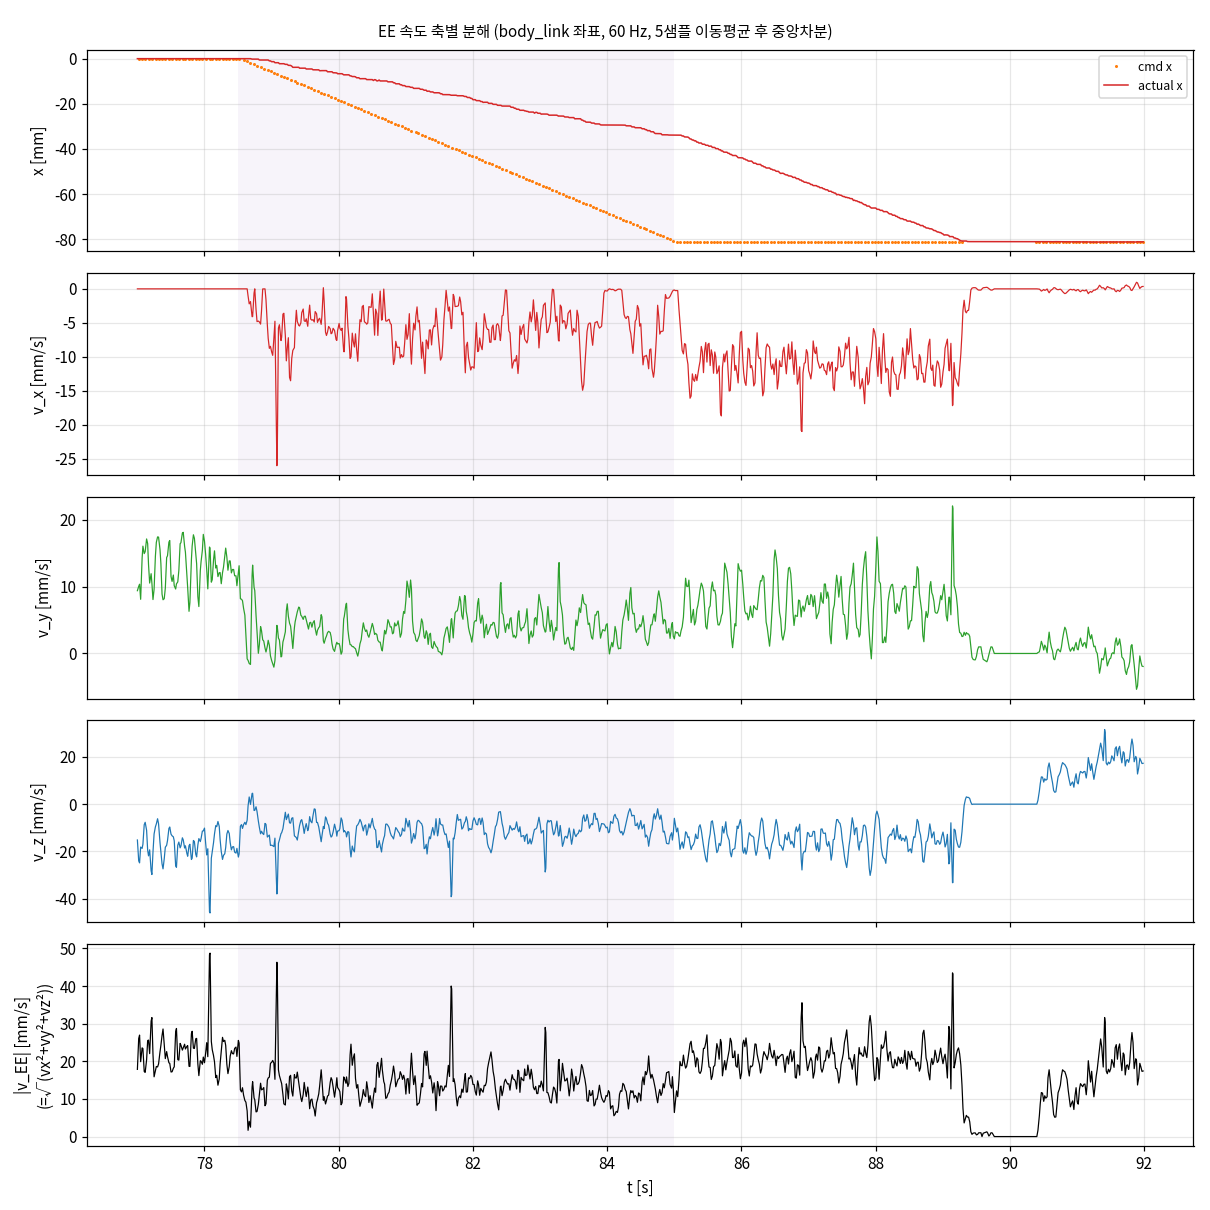
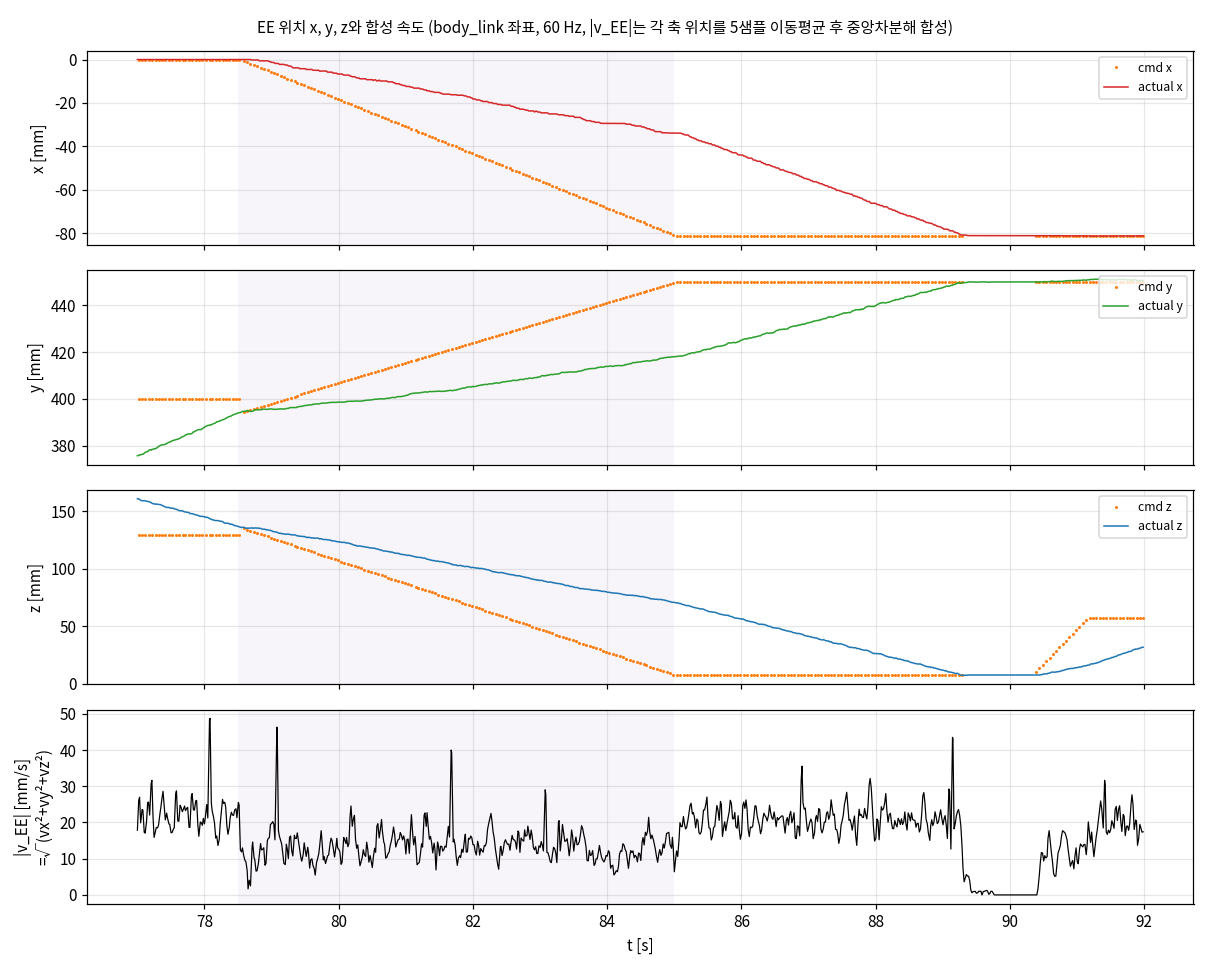
A단계 그림을 x·y·z 위치 + 합성 |v_EE|로, PiPER base 좌표축 그림 추가
- plot_bag_xyz: 기본은 x, y, z 위치(지령/실측)와 |v_EE|, --vel이면 축별 속도 줄 추가
- tools/draw_base_frame.py: URDF STL 메시로 자세를 그려 base_link(native) 좌표축 표시, body_link와의 관계 명시
- docs/img/p_base_frame.png: B단계 line 시작 자세(EE 300.1, 0, 140.1 mm, 펌웨어 EndPose와 일치)

diff --git a/tools/draw_base_frame.py b/tools/draw_base_frame.py
@@ -1,0 +1,123 @@
+#!/usr/bin/env python3
+"""URDF 메시(STL)로 PiPER 자세를 그리고 base_link(native)·body_link 좌표축을 표시 — 발표용 좌표 정의 그림.
+
+사용: python3 tools/draw_base_frame.py --q 0 103.55 -54.85 0 46.26 -15.03 --out docs/img/p_base_frame.png
+q: 관절각 [deg] (기본값 = B단계 line 궤적 시작 자세)
+"""
+import argparse
+import os
+import sys
+import xml.etree.ElementTree as ET
+
+import numpy as np
+import matplotlib
+matplotlib.use("Agg")
+import matplotlib.pyplot as plt
+from mpl_toolkits.mplot3d.art3d import Poly3DCollection
+
+sys.path.insert(0, os.path.dirname(__file__))
+sys.path.insert(0, os.path.join(os.path.dirname(__file__), "..", "src", "common_pkg"))
+from traj_analyze import _font
+from piper_kin import load_urdf_xml
+from step22_common import ARM_BASE_YAW_DEG
+
+MESH_DIR = os.path.join(os.path.dirname(__file__), "..", "src", "piper_description", "meshes")
+COLORS = {"base_link": "0.35", "gripper_base": "0.25", "link7": "0.25", "link8": "0.25"}
+
+
+def read_stl(path):  # 바이너리 STL → 삼각형 [N,3,3] m
+    with open(path, "rb") as f:
+        f.read(80)
+        n = int(np.frombuffer(f.read(4), np.uint32)[0])
+        rec = np.frombuffer(f.read(n * 50), dtype=np.dtype([("n", "<f4", 3), ("v", "<f4", (3, 3)), ("a", "<u2")]))
+    return rec["v"].astype(float)
+
+
+def rpy_mat(r, p, y):
+    cx, sx, cy, sy, cz, sz = np.cos(r), np.sin(r), np.cos(p), np.sin(p), np.cos(y), np.sin(y)
+    return (np.array([[cz, -sz, 0], [sz, cz, 0], [0, 0, 1]]) @ np.array([[cy, 0, sy], [0, 1, 0], [-sy, 0, cy]])
+            @ np.array([[1, 0, 0], [0, cx, -sx], [0, sx, cx]]))
+
+
+def axis_rot(ax, th):  # 로드리게스
+    ax = np.asarray(ax, float) / np.linalg.norm(ax)
+    K = np.array([[0, -ax[2], ax[1]], [ax[2], 0, -ax[0]], [-ax[1], ax[0], 0]])
+    return np.eye(3) + np.sin(th) * K + (1 - np.cos(th)) * K @ K
+
+
+def link_frames(urdf_xml, q_deg):  # 링크별 base_link 기준 4x4 변환
+    root = ET.fromstring(urdf_xml)
+    T = {"base_link": np.eye(4)}
+    joints = root.findall("joint")
+    while True:
+        added = False
+        for j in joints:
+            par, ch = j.find("parent").get("link"), j.find("child").get("link")
+            if par not in T or ch in T:
+                continue
+            o = j.find("origin")
+            A = np.eye(4)
+            A[:3, :3] = rpy_mat(*[float(v) for v in o.get("rpy", "0 0 0").split()])
+            A[:3, 3] = [float(v) for v in o.get("xyz", "0 0 0").split()]
+            M = np.eye(4)
+            name = j.get("name")
+            if j.get("type") == "revolute" and name.startswith("joint") and int(name[5:]) <= 6:
+                M[:3, :3] = axis_rot([float(v) for v in j.find("axis").get("xyz").split()], np.radians(q_deg[int(name[5:]) - 1]))
+            T[ch] = T[par] @ A @ M
+            added = True
+        if not added:
+            return T
+
+
+def main():
+    ap = argparse.ArgumentParser()
+    ap.add_argument("--q", nargs=6, type=float, default=[0, 103.55, -54.85, 0, 46.26, -15.03])
+    ap.add_argument("--out", default="docs/img/p_base_frame.png")
+    a = ap.parse_args()
+    _font()
+    T = link_frames(load_urdf_xml(), a.q)
+    light = np.array([0.4, -0.5, 0.8]); light /= np.linalg.norm(light)
+
+    fig = plt.figure(figsize=(14, 7))
+    for k, (elev, azim, title) in enumerate(((22, -60, "비스듬히 본 모습"), (0, -90, "옆에서 본 모습 (x–z 평면)"))):
+        ax = fig.add_subplot(1, 2, k + 1, projection="3d", proj_type="persp" if k == 0 else "ortho")
+        ax.computed_zorder = False  # 그린 순서대로 — 좌표축이 메시에 가려지지 않게
+        for link, M in T.items():
+            path = os.path.join(MESH_DIR, f"{link}.STL")
+            if not os.path.exists(path):
+                continue
+            tri = read_stl(path) @ M[:3, :3].T + M[:3, 3]
+            nrm = np.cross(tri[:, 1] - tri[:, 0], tri[:, 2] - tri[:, 0])
+            nrm /= np.linalg.norm(nrm, axis=1, keepdims=True) + 1e-12
+            shade = 0.45 + 0.55 * np.clip(nrm @ light, 0, 1)
+            base = np.array(matplotlib.colors.to_rgb(COLORS.get(link, "0.8")))
+            ax.add_collection3d(Poly3DCollection(tri, facecolors=np.clip(base[None] * shade[:, None] + 0.1, 0, 1), linewidths=0))
+        L = 0.2
+        for v, c, n in ((np.eye(3)[0], "red", "x"), (np.eye(3)[1], "green", "y"), (np.eye(3)[2], "blue", "z")):
+            if k == 1 and n == "y":
+                continue
+            ax.quiver(0, 0, 0, *(v * L), color=c, lw=3, arrow_length_ratio=0.12)
+            ax.text(*(v * L * 1.12), n, color=c, fontsize=15, weight="bold")
+        pe = T["link6"][:3, 3]
+        ax.scatter(*pe, color="k", s=30)
+        ax.text(*(pe + [0.015, 0, 0.02]), "EE(link6)", fontsize=10, weight="bold")
+        ax.quiver(*pe, 0.07, 0, -0.04, color="tab:purple", lw=2.5, arrow_length_ratio=0.2)
+        ax.text(*(pe + [0.07, 0, -0.07]), "line: x +70, z −40 mm", color="tab:purple", fontsize=10)
+        ax.set_xlim(-0.1, 0.4); ax.set_ylim(-0.25, 0.25); ax.set_zlim(-0.05, 0.45)
+        ax.set_box_aspect((1, 1, 1))
+        ax.set_xlabel("x [m]"); ax.set_ylabel("y [m]"); ax.set_zlabel("z [m]")
+        ax.view_init(elev=elev, azim=azim)
+        if k == 1:
+            ax.set_yticks([]); ax.set_ylabel("")
+        ax.set_title(title, fontsize=11, pad=0)
+    yaw = ARM_BASE_YAW_DEG
+    fig.suptitle("PiPER base_link(native) 좌표 — 원점: 팔 베이스 바닥 중심, x 앞(팔 뻗는 방향), y 왼쪽, z 위", fontsize=13)
+    fig.text(0.5, 0.03, f"A단계 그림의 body_link(차체 기준)는 팔이 차체에 {yaw:.0f}° 돌아 장착돼 있어 x_body = −y, y_body = x, z_body = z  "
+             "(EE = 펌웨어 EndPose = URDF link6 원점)", ha="center", fontsize=10, color="0.3")
+    fig.subplots_adjust(left=0.02, right=0.98, top=0.9, bottom=0.08, wspace=0.05)
+    fig.savefig(a.out, dpi=120)
+    print("저장:", a.out, " EE(link6) =", np.round(pe * 1000, 1), "mm")
+
+
+if __name__ == "__main__":
+    main()

diff --git a/tools/plot_bag_xyz.py b/tools/plot_bag_xyz.py
@@ -1,5 +1,5 @@
 #!/usr/bin/env python3
-"""bag 구간 → EE 위치(x 지령/실측) + 축별 속도 v_x, v_y, v_z + 합성 |v_EE| 그림과 구간별 수치.
+"""bag 구간 → EE 위치 x, y, z(지령/실측) + 합성 |v_EE| 그림과 구간별 수치. --vel이면 축별 속도도 그린다.
 
 사용: python3 tools/plot_bag_xyz.py logs/bags/<bag> --t 77 92 --hl 78.5 85 --after 85.5 89 --out docs/img/a_zoom_place_descend_xyz.png
 좌표: /arm/ee_pose_body(body_link), 속도: 5샘플 이동평균 후 중앙차분(plot_run.deriv)
@@ -30,6 +30,7 @@ def main():
     ap.add_argument("--t", nargs=2, type=float, required=True)   # 그릴 구간 [s, bag 시작 기준]
     ap.add_argument("--hl", nargs=2, type=float, default=None)   # 음영 구간(목표 갱신 중)
     ap.add_argument("--after", nargs=2, type=float, default=None)  # 비교 구간(목표 멈춘 뒤)
+    ap.add_argument("--vel", action="store_true")  # 축별 속도 v_x, v_y, v_z 줄 추가
     ap.add_argument("--out", required=True)
     a = ap.parse_args()
     _font()
@@ -48,19 +49,22 @@ def main():
     if a.after:
         stats("비교 구간", v, vn, (te >= a.after[0]) & (te < a.after[1]))
 
-    fig, axs = plt.subplots(5, 1, figsize=(11, 11), sharex=True)
-    axs[0].plot(tc[kc], pc[kc, 0], ".", ms=2, color="tab:orange", label="cmd x")
-    axs[0].plot(te[k], pe[k, 0], color="tab:red", lw=1, label="actual x")
-    axs[0].set_ylabel("x [mm]"); axs[0].legend(fontsize=8)
-    for i, (n, c) in enumerate(zip("xyz", ("tab:red", "tab:green", "tab:blue"))):
-        axs[i + 1].plot(te[k], v[k, i], color=c, lw=0.8); axs[i + 1].set_ylabel(f"v_{n} [mm/s]")
-    axs[4].plot(te[k], vn[k], color="k", lw=0.8); axs[4].set_ylabel("|v_EE| [mm/s]\n(=√(vx²+vy²+vz²))")
-    axs[4].set_xlabel("t [s]")
+    C = ("tab:red", "tab:green", "tab:blue")
+    rows = 4 + (3 if a.vel else 0)
+    fig, axs = plt.subplots(rows, 1, figsize=(11, 2.2 * rows), sharex=True)
+    for i, n in enumerate("xyz"):
+        axs[i].plot(tc[kc], pc[kc, i], ".", ms=2, color="tab:orange", label=f"cmd {n}")
+        axs[i].plot(te[k], pe[k, i], color=C[i], lw=1, label=f"actual {n}")
+        axs[i].set_ylabel(f"{n} [mm]"); axs[i].legend(fontsize=8, loc="upper right")
+        if a.vel:
+            axs[3 + i].plot(te[k], v[k, i], color=C[i], lw=0.8); axs[3 + i].set_ylabel(f"v_{n} = d{n}/dt\n[mm/s]")
+    axs[-1].plot(te[k], vn[k], color="k", lw=0.8); axs[-1].set_ylabel("|v_EE| [mm/s]\n=√(vx²+vy²+vz²)")
+    axs[-1].set_xlabel("t [s]")
     for x in axs:
         x.grid(alpha=0.3)
         if a.hl:
             x.axvspan(*a.hl, color="tab:purple", alpha=0.07, lw=0)
-    fig.suptitle("EE 속도 축별 분해 (body_link 좌표, 60 Hz, 5샘플 이동평균 후 중앙차분)", fontsize=10)
+    fig.suptitle("EE 위치 x, y, z와 합성 속도 (body_link 좌표, 60 Hz, |v_EE|는 각 축 위치를 5샘플 이동평균 후 중앙차분해 합성)", fontsize=10)
     fig.tight_layout()
     fig.savefig(a.out, dpi=110)
     print("저장:", a.out)
